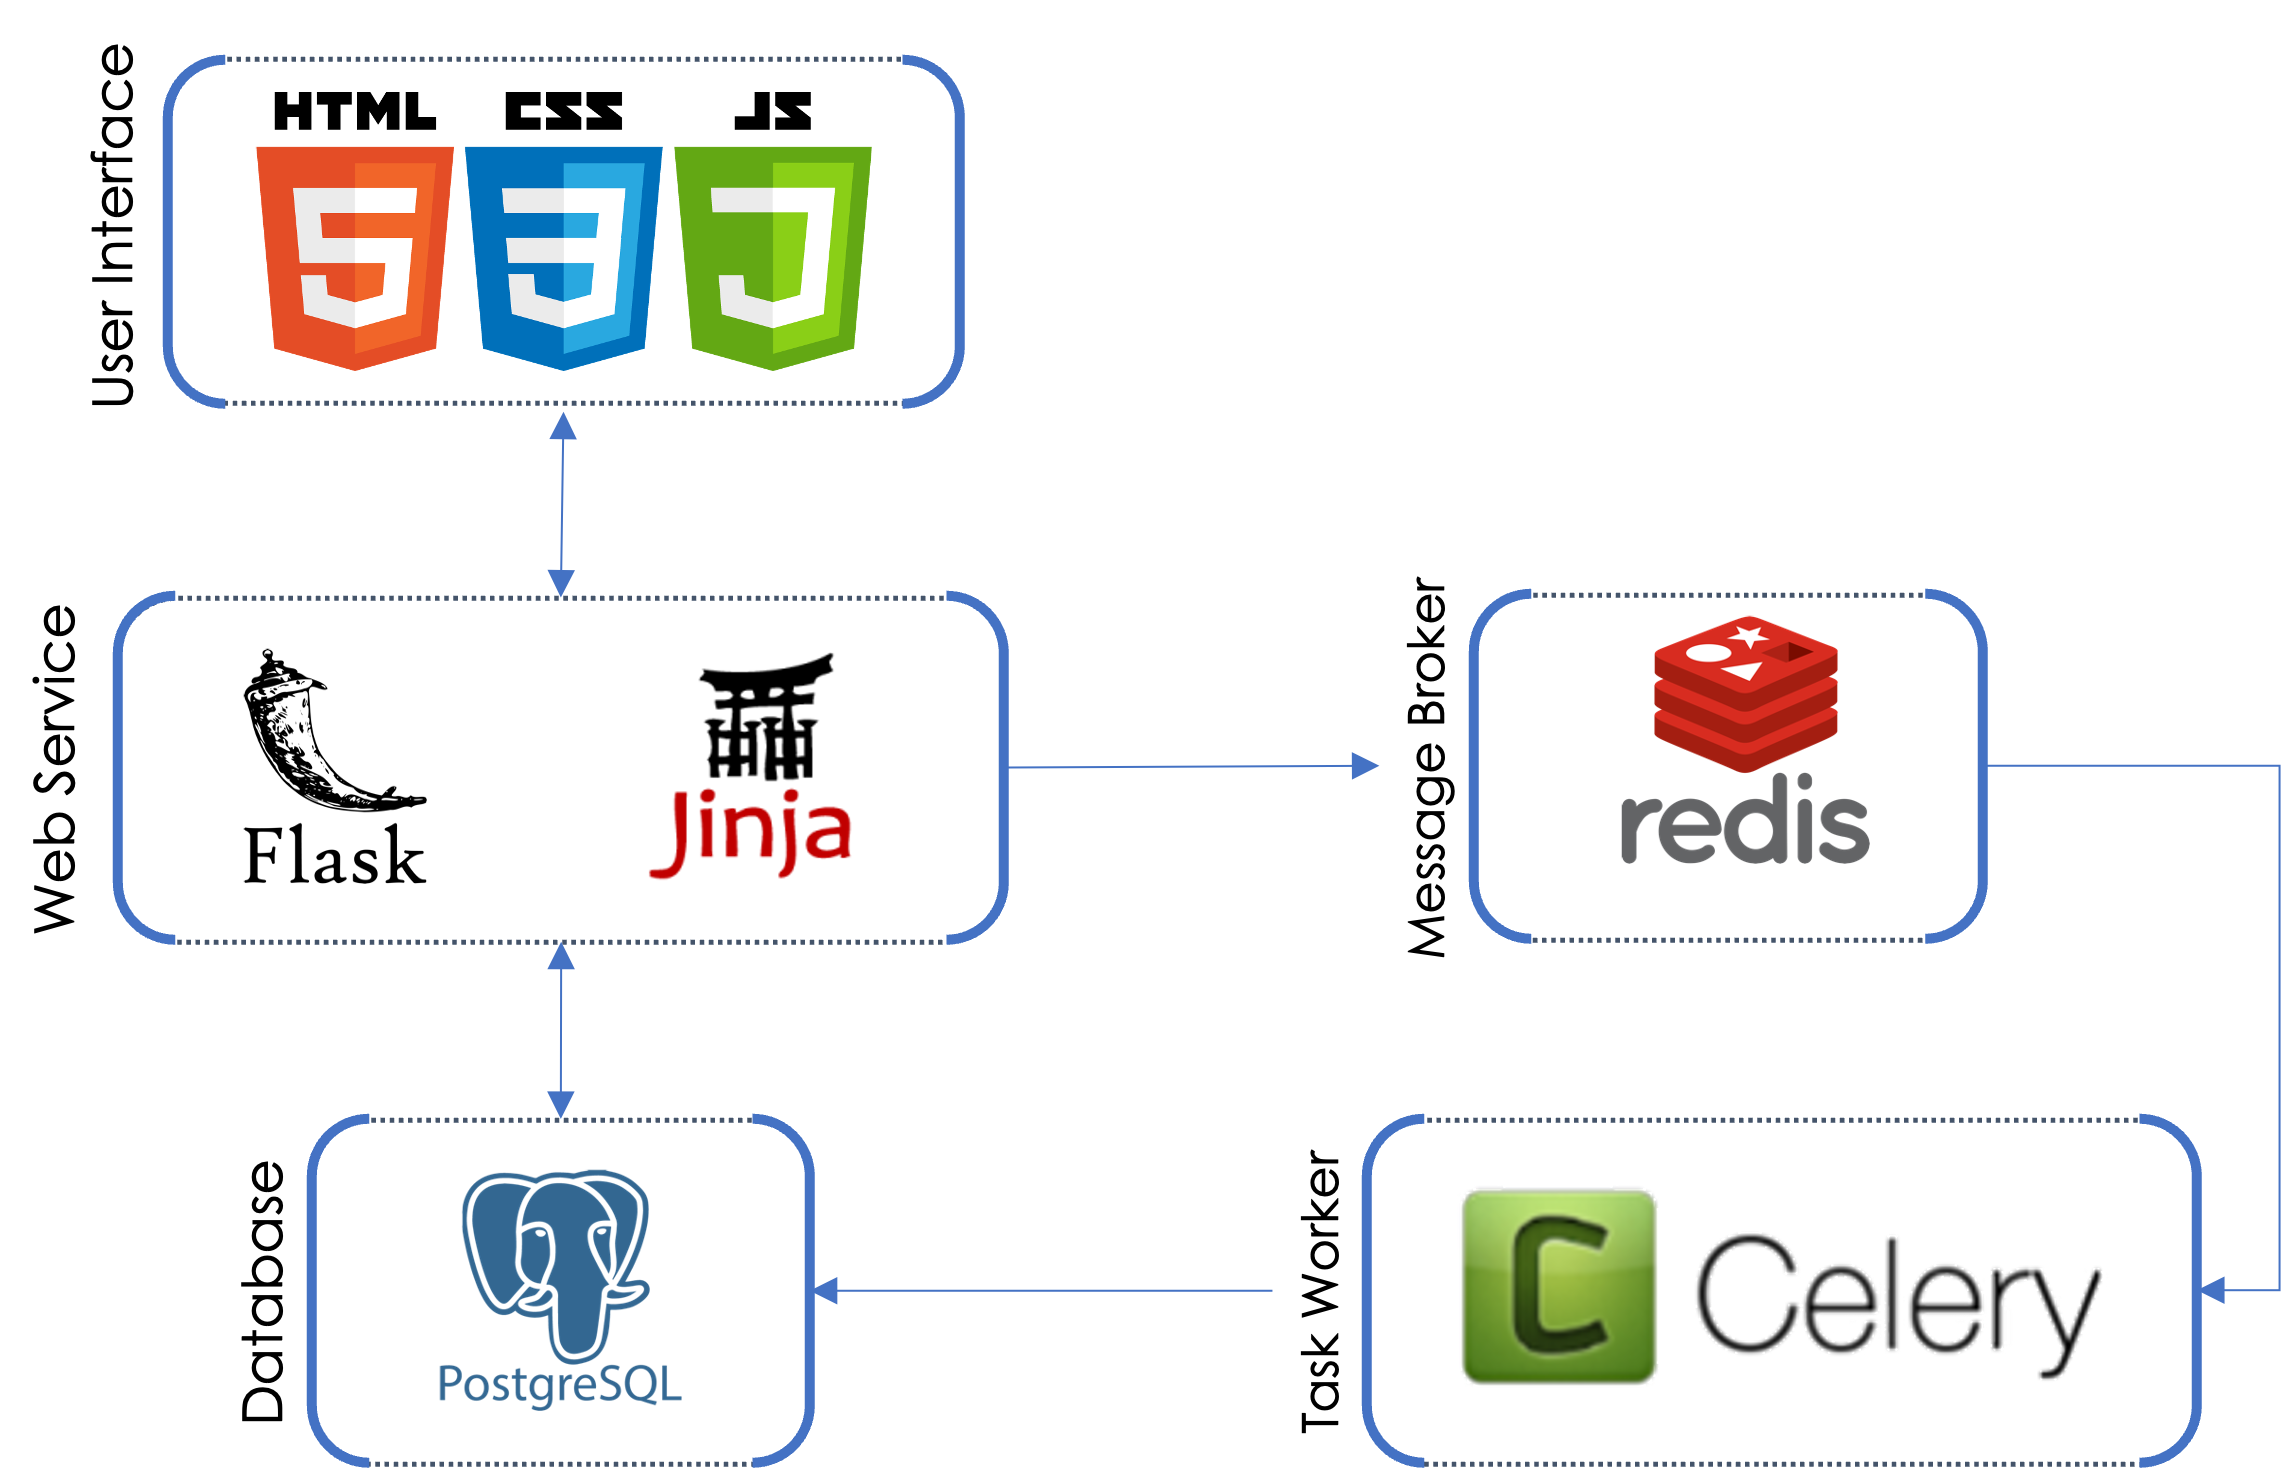
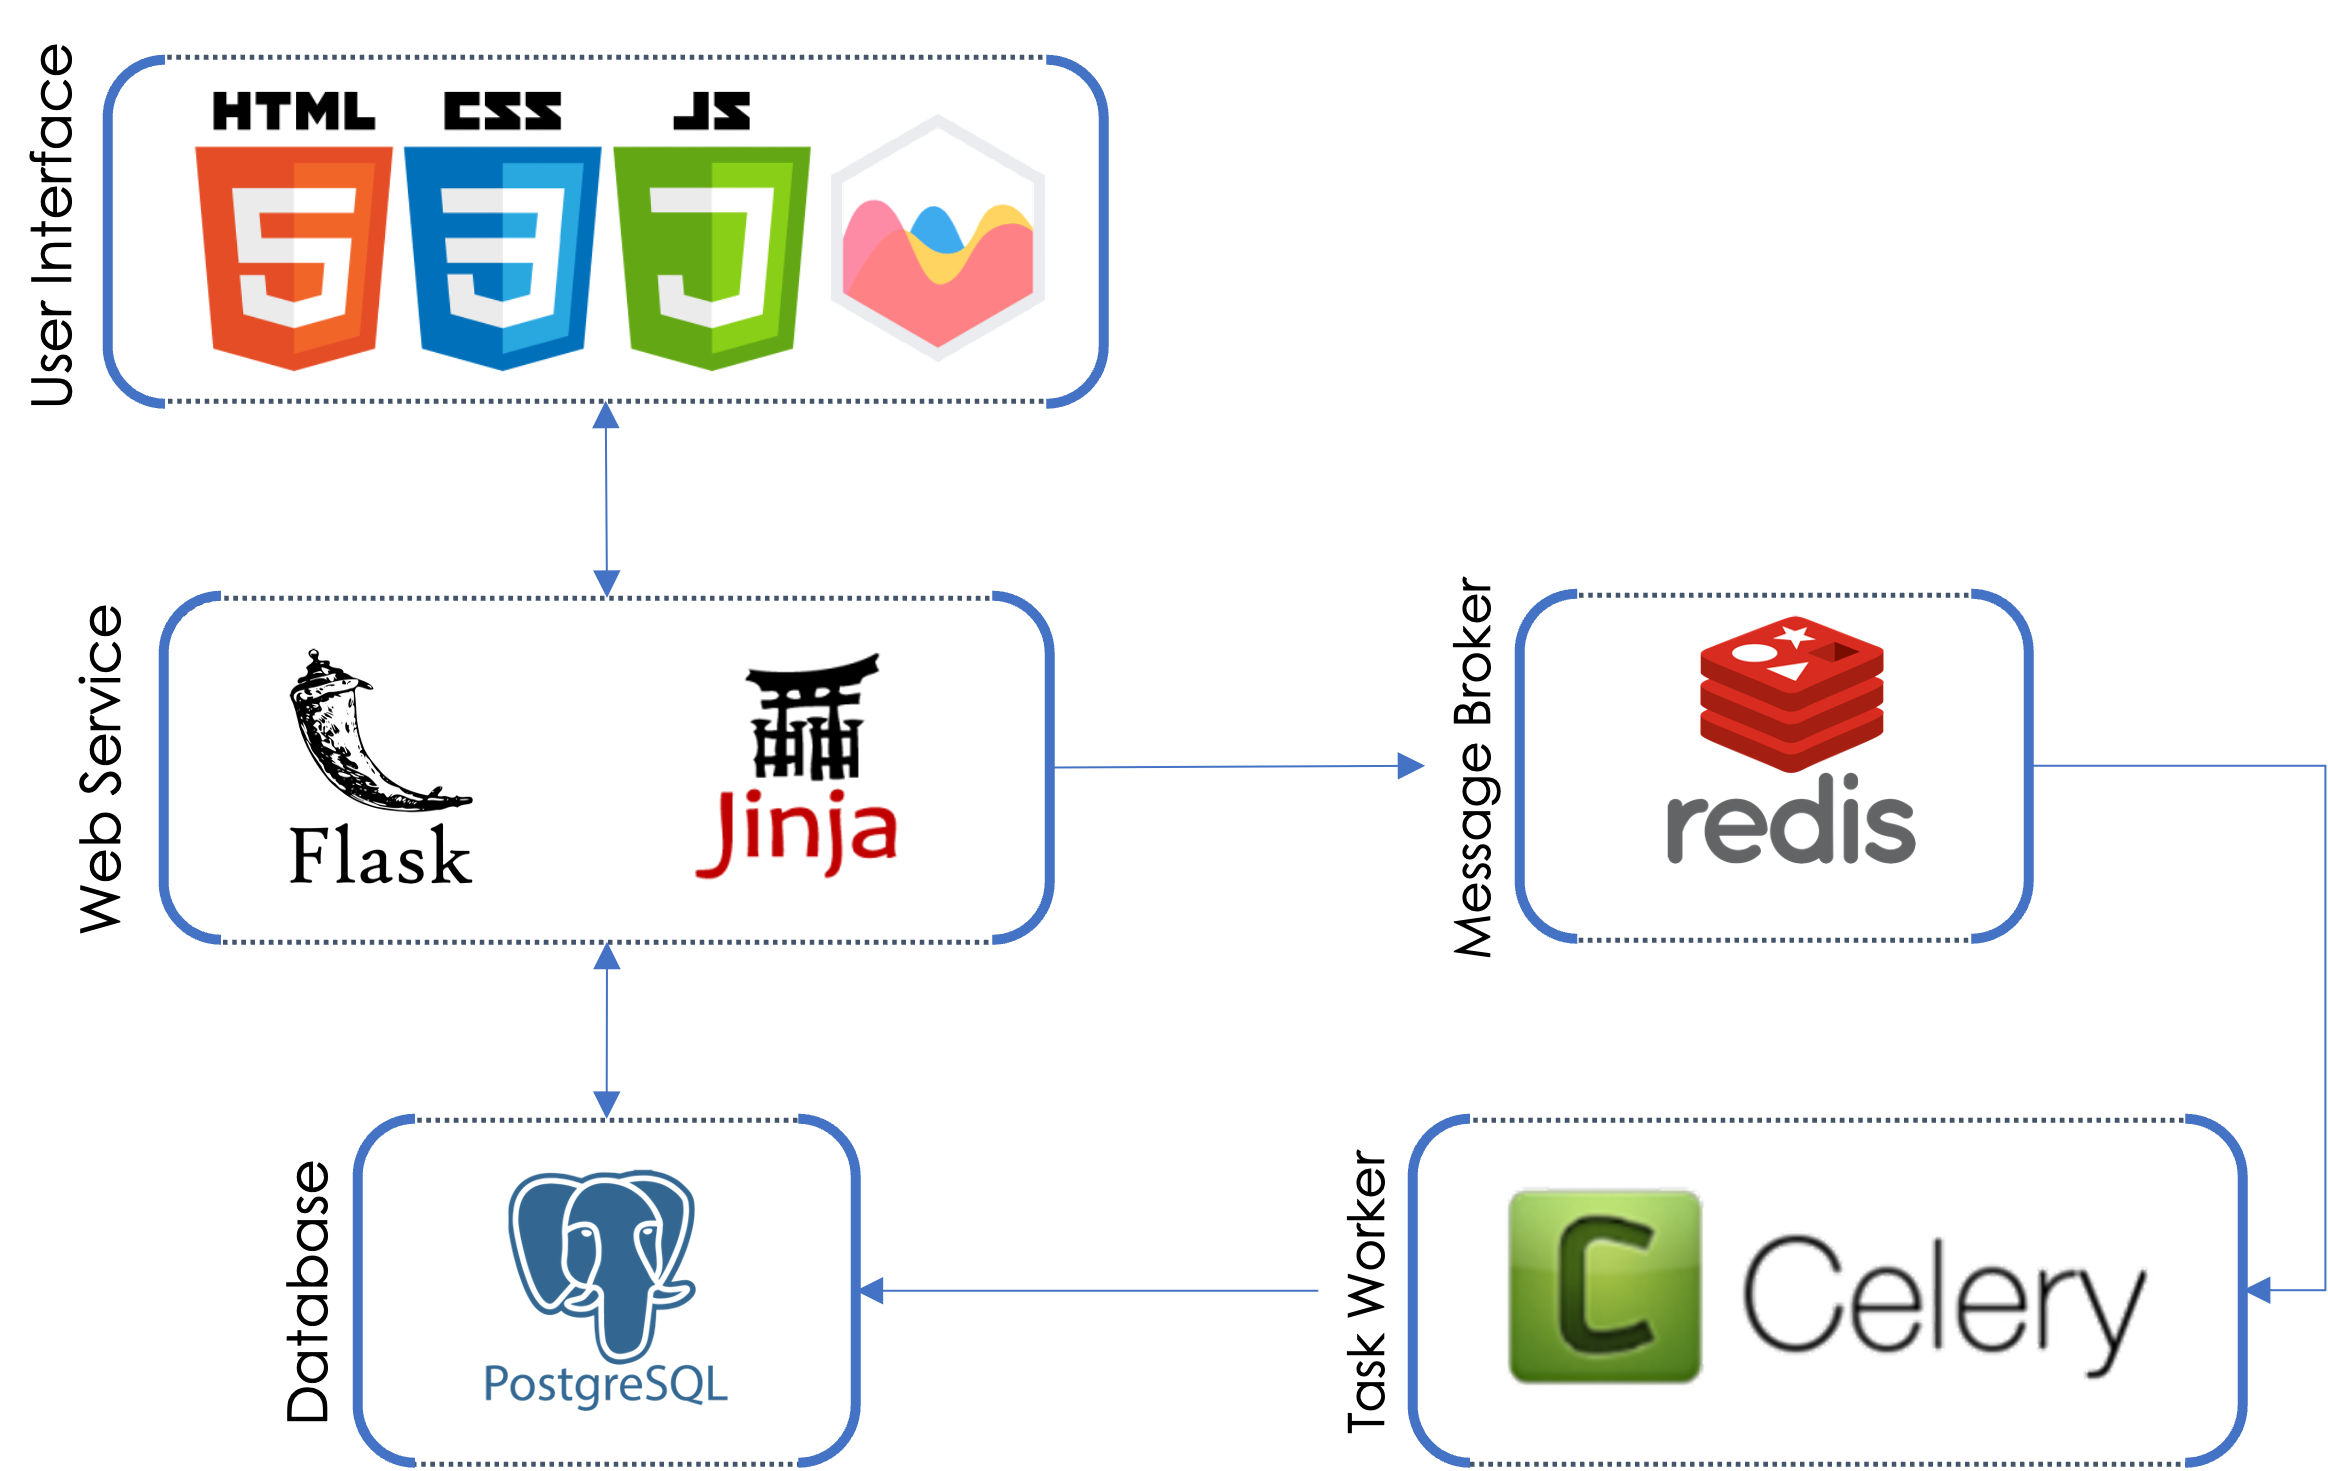
More updates to README

diff --git a/README.md b/README.md
@@ -9,27 +9,48 @@ Here you will find a plethora of re-usable code for the following areas:
 
 Below you will find some samples of the outputs as some of my code base is private.
 
+## Data Profiling Webb Application
+<details open>
+<summary><b>Purpose</b></summary>
 
-## Data Profiling Web Application - Jumpstart
+This simple web application will allow you to upload a dataset, perform general exploratory analysis and visualize the results
 
-###Functionality:
+</details>
+<details>
+<summary><b>Functionality</b></summary>
+
 1. Ability to login using username and password.
-2. UI Dark Mode
-3. Automated Exploratory Analysis
+1. UI Dark Mode
+1. Automated Exploratory Analysis
     - Table level statistics
     - Table variable types
     - Table variable statistics
     - Table alert types 
     - Variable level statistics table
-4. Data Labels for Privacy Apllication 
-5. UI Dark Mode
-6. Job Management 
-
-###Future Functionality:
+1. Save job data and results to a database
+1. Visualize the results in an interactive dashboard format
+1. Data Labels for Privacy Apllication 
+1. UI Dark Mode
+1. Job Management 
+</details>
+<details>
+<summary><b>Future Functionality</b></summary>
 
 1. API endpoints for profiling
-2. Great Expectation execution
-3. UI for expectation management
+1. Great Expectation execution
+1. UI for expectation management
+</details>
 
-###Architecture
+<details>
+<summary><b>Architecture</b></summary>
+
 ![alt text](images/DPWA_Arch.png?raw=true)
+
+</details>
+
+<details>
+<summary><b>Screenshots</b></summary>
+
+
+
+</details>
